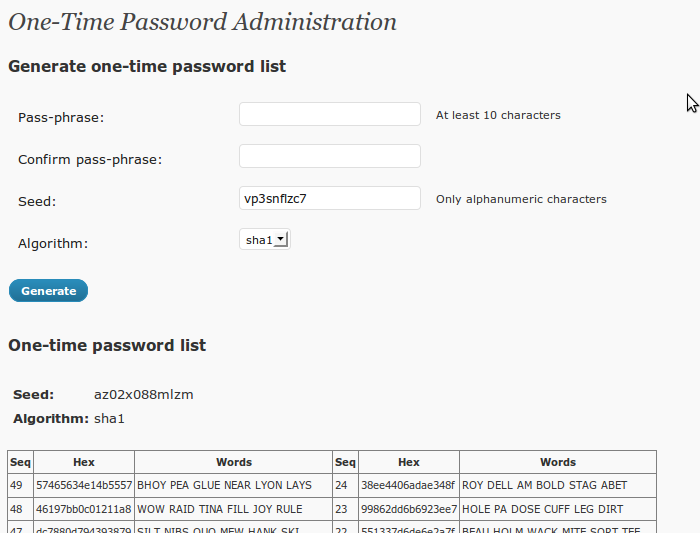
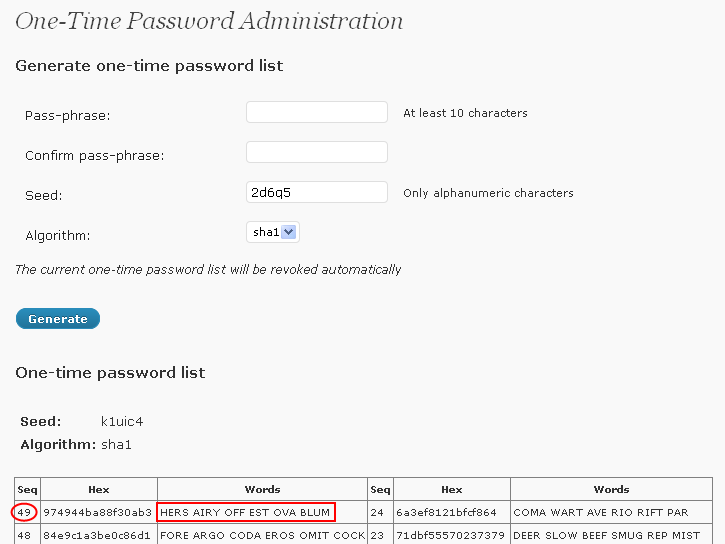
git-svn-id: https://plugins.svn.wordpress.org/one-time-password@138219 b8457f37-d9ea-0310-8a92-e5e31aec5664

diff --git a/trunk/otp.css b/trunk/otp.css
@@ -5,6 +5,17 @@
 	font-size: 13px;
 }
 
+#otp_challenge {
+	font-style: italic;
+	color: #555555;
+}
+
+#otp_notice {
+	background-color: red;
+	font-weight: bold;
+	width: 70%;
+}
+
 .otp_message {
 	font-weight: bold;
 	color: red;
@@ -12,12 +23,6 @@
 
 .otp_hint {
 	margin: 0 0 0 10px;
-}
-
-
-.otp_challenge {
-	font-style: italic;
-	color: #555555;
 }
 
 #otp_list {

diff --git a/trunk/otp.php b/trunk/otp.php
@@ -3,7 +3,7 @@
 Plugin Name: One-Time Password
 Plugin URI: http://blog.bokhorst.biz/2200/computers-en-internet/wordpress-plugin-one-time-password/
 Description: One-Time Password System conforming to <a href="http://tools.ietf.org/html/rfc2289">RFC 2289</a> to protect your weblog in less trustworthy environments, like internet cafés.
-Version: 0.1
+Version: 0.2
 Author: Marcel Bokhorst
 Author URI: http://blog.bokhorst.biz/
 */
@@ -40,6 +40,8 @@ Author URI: http://blog.bokhorst.biz/
 	- ajax new seed
 	- error handling ajax get challenge
 	- ajax error messages (validators)
+	- last used time
+	- translations
 */
 
 #error_reporting(E_ALL);
@@ -57,8 +59,6 @@ if (isset($_GET['otp_user'])) {
 			$otp_class = new otp();
 			echo $otp_class->createChallenge($otp_row->seed, $otp_row->sequence, $otp_row->algorithm);
 		}
-		else
-			echo '';
 	}
 	catch (Exception $e) {
 		echo $e->getMessage();
@@ -68,8 +68,7 @@ if (isset($_GET['otp_user'])) {
 
 // Handle plugin activation
 if (!function_exists('otp_activate')) {
-	function otp_activate()
-	{
+	function otp_activate() {
 		// Create table
 		global $wpdb;
 		$otp_table = $wpdb->prefix . 'otp';
@@ -123,15 +122,15 @@ function otp_login_form() {
 ?>
 	<script type="text/javascript">
 		jQuery(document).ready(function($) {
-			// Create element for challenge
-			$('#user_pass').parent().parent().after($('<p id="otp_challenge" class="otp_challenge">'));
+			// Create element for otp challenge
+			$('#user_pass').parent().parent().after($('<p id="otp_challenge">'));
 
-			// Hide challenge when user changes
+			// Hide otp challenge when username changes
 			$('#user_login').keyup(function() {
 				$('#otp_challenge').hide();
 			});
 
-			// Show challenge when password gets focus
+			// Show otp challenge when password gets focus
 			$('#user_pass').focus(function() {
 				otp_challenge = $('#otp_challenge');
 				otp_challenge.text('<?php _e('Wait'); ?>');
@@ -159,14 +158,13 @@ function otp_login_form() {
 }
 
 // Authenticate using OTP
-function otp_authenticate($user)
-{
+function otp_authenticate($user) {
 	// Get data
 	global $wpdb;
 	$otp_user = $wpdb->escape($_POST['log']);
 	$otp_table = $wpdb->prefix . 'otp';
 	$otp_row = $wpdb->get_row('SELECT seed, algorithm, sequence, hash FROM ' . $otp_table . " WHERE user='" . $otp_user . "'");
-	if ($otp_row != null) {
+	if ($otp_row != null && $otp_row->sequence >= 0) {
 		// Check OTP
 		$otp_class = new otp();
 		$otp_data = $otp_class->initializeOtp($otp_row->hash, $otp_row->seed, $otp_row->sequence, $otp_row->algorithm);
@@ -215,7 +213,7 @@ function otp_options() {
 	$otp_user = $wpdb->escape($current_user->user_login);
 
 	// Output header
-	echo '<div class="wrap" id="content">';
+	echo '<div class="wrap">';
 	echo '<h2>' . __('One-Time Password Administration') . '</h2>';
 
 	// Render generate form
@@ -261,6 +259,8 @@ function otp_options() {
 
 	</table>
 
+	<p><em><?php _e('The current one-time password list will be revoked automatically') ?></em></p>
+	
 	<p class="submit">
 	<input type="submit" class="button-primary" value="<?php _e('Generate') ?>" />
 	</p>
@@ -317,7 +317,7 @@ function otp_options() {
 				"'" . $otp_list[0]['hex_otp'] . "',  " .
 				"now());";
 			$wpdb->query($sql);
-
+			
 			// Render password list
 			echo '<h3>' . __('One-time password list') . '</h3>';
 			echo '<form id="otp_form_print" method="post" action="#">';
@@ -420,6 +420,27 @@ function otp_options() {
 <?php
 }
 
+function otp_admin_notices() {
+	global $wpdb;
+	global $current_user;
+
+	if (strpos($_SERVER['REQUEST_URI'], 'one-time-password') === false) {
+		// Get current user
+		get_currentuserinfo();
+		$otp_user = $wpdb->escape($current_user->user_login);
+
+		// Get current sequence
+		$otp_table = $wpdb->prefix . 'otp';
+		$otp_row = $wpdb->get_row("SELECT sequence FROM " . $otp_table . " WHERE user='" . $otp_user . "'");
+
+		// Check password list
+		if ($otp_row == null || $otp_row->sequence <= 0) {
+			$url = admin_url('options-general.php?page=one-time-password/otp.php');
+			echo '<div id="otp_notice"><p>' . __('One-time password list') . ' <a href="' . $url . '">' . __('should be generated') . '</a></p></div>';
+		}
+	}
+}
+
 // Register activation hook
 if (function_exists('register_activation_hook'))
 	register_activation_hook( __FILE__, 'otp_activate' );
@@ -430,6 +451,7 @@ if (function_exists('add_action')) {
 	add_action('login_head', 'otp_login_head');
 	add_action('login_form', 'otp_login_form');
 	add_action('admin_menu', 'otp_admin_menu');
+	add_action('admin_notices', 'otp_admin_notices');
 }
 
 // Register filters
